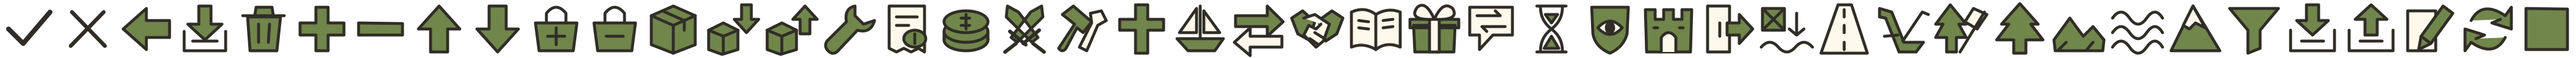
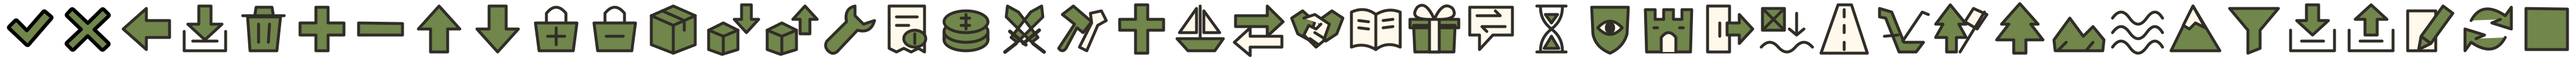
Use filled hand-drawn confirmation and cancel signs

Changed region(s): [[0.0, 0.1562, 0.0625, 0.8438]]

diff --git a/akropia-game/src/test/java/org/akropia/gui/image/ButtonPresentationContractTest.java b/akropia-game/src/test/java/org/akropia/gui/image/ButtonPresentationContractTest.java
@@ -59,15 +59,23 @@ class ButtonPresentationContractTest {
         assertEquals(96, image.getHeight());
         for (int cell = 0; cell < cells; cell++) {
             int ink = 0;
+            int olive = 0;
+            final int expectedInk = cell < 2 ? 0x000000 : 0x302d27;
             for (int x = cell * 96; x < (cell + 1) * 96; x++) {
                 for (int y = 0; y < 96; y++) {
                     final int pixel = image.getRGB(x, y);
-                    if ((pixel >>> 24) == 255 && (pixel & 0xffffff) == 0x302d27)
+                    if ((pixel >>> 24) == 255
+                            && (pixel & 0xffffff) == expectedInk)
                         ink++;
+                    if ((pixel >>> 24) == 255 && (pixel & 0xffffff) == 0x71864b)
+                        olive++;
                 }
             }
             assertTrue(ink > 40,
                     "Empty or missing action icon in cell " + cell);
+            if (cell < 2)
+                assertTrue(olive > 300,
+                        "Confirmation signs must have a flat olive fill");
             assertEquals(0, image.getRGB(cell * 96, 0) >>> 24);
             assertEquals(0, image.getRGB((cell + 1) * 96 - 1, 95) >>> 24);
         }

diff --git a/akropia-test/src/test/java/org/akropia/test/TC_01_F01_embark_disembark_test.java b/akropia-test/src/test/java/org/akropia/test/TC_01_F01_embark_disembark_test.java
@@ -79,6 +79,14 @@ public class TC_01_F01_embark_disembark_test extends AbstractAkropiaTest {
         // Select and confirm the first passenger of two.
         PassengerTransferPage passengers = new PassengerTransferPage(
                 getContext());
+        // Shared confirmation signs retain their button layout and action
+        // labels.
+        final org.akropia.page.PaperButtonsPage buttons = new org.akropia.page.PaperButtonsPage(
+                getContext());
+        buttons.verifyPaperButton("passenger-cancel");
+        buttons.verifyPaperButton("passenger-confirm");
+        buttons.captureDialog("passenger-confirm",
+                "r0445-confirmation-signs.png");
         passengers.chooseOnly(24);
         passengers.confirm();
         gamePage.waitForNumberOfUnitsAt(SHORE_LAND_LOCATION, 1);

diff --git a/docs/functional-tests.md b/docs/functional-tests.md
@@ -14913,3 +14913,18 @@ The numbered entries below are chronological evidence, including failed attempts
 8. Fixed smoke/support dispatched as `20261110T022110Z-cec87976799b` (PID 15814), outer timeout 480 seconds and unchanged 420-second acceptance budget. Final acceptance and documentation closure remain pending.
 9. Fixed smoke/support passed **21 tests, zero failures/errors/skips**, `target/verification/run-5jfymozs/`, 235.559 supervised seconds within the 420-second budget. Every task executable source matches both the accepted hash record and smoke snapshot. Final review confirms return/cancel, overwrite and failed-save behavior, preserved game assertions, scoped paper styling and the two rendered screenshots. R-0444 is locally accepted; historical failed runs remain failed. No remote CI, full regression or publication verification was performed.
 10. Final documentation acceptance uses the complete staged source snapshot, excluding the unrelated backlog edit: 14 consistency tests, naming audit and strict MkDocs passed. Logs are retained in `target/r0444/docs-tests-final.log`, `name-audit-final.log` and `mkdocs-final.log`.
+
+
+## R-0445 confirmation signs — 2026-11-10
+
+1. [Requirement](requirements/done/R-0445.md): only shared CONFIRM/CANCEL artwork changes. Existing localized button labels and actions remain. TC_01_F01_embark_disembark_test/01 additionally verifies both passenger buttons and captures `r0445-confirmation-signs.png`, retaining all transfer assertions; TC_83 covers shared controls, states and keyboard activation. PageVerificationContractTest retains the source contract.
+2. Genuine vector paths use flat olive fills and black 2-logical-pixel outlines at 32 × 32 display size. Repeatable controls export/check passed. Decoded RGBA comparison confirms all 42 other atlas cells unchanged (`target/r0445/atlas-review.txt`). Vector preview reviewed at 32 px and enlarged; no paper backing or text is part of either sign. Shared Java formatter applied to both changed test files.
+3. Local acceptance is in progress: model/JUnit dispatch `20261110T023051Z-790a14327490`, supervisor PID 17145, timeout 600 seconds. Targeted Docker/Xvfb and smoke/support follow passing model results. Remote CI, full regression and publication are not inspected.
+
+4. First model attempt timed out during preparation: the labeled Docker container query exceeded 20 seconds; no test command started. Docker Desktop was running but its server probe also exceeded two seconds. A subsequent explicit server probe returned version 29.8.2 in 0.397 seconds (`target/r0445/docker-wake.log`). This is a startup-delay diagnosis, not a failed test or acceptance. All original evidence is retained. Documentation checks passed: 14 tests, zero failures/errors/skips, naming audit zero unexplained occurrences, strict MkDocs.
+
+5. Model/JUnit retry `20261110T023226Z-4e31abc4886f` (PID 17407) passed in 157.180 supervised seconds: 5117 tests in 394 reports, zero failures/errors/skips, `target/verification/run-tsx_pe0b`. All five changed asset/config/test files match the checked snapshot. Targeted Docker/Xvfb dispatch `20261110T023525Z-ab6d354ef53b` (PID 18005), timeout 1,800 seconds: complete TC_01, TC_83 and PageVerificationContractTest.
+
+6. Targeted Docker/Xvfb passed **7 tests, zero failures/errors/skips**, three XML reports in `target/docker-ui/run-qYeMAY`, 98.010 supervised seconds. Reviewed [actual passenger-dialog screenshot](graphics-assets/confirmation-signs-2026-11-10/passengers.png): both standalone green signs have black outlines and fit their existing buttons; original Cancel / Disembark selected labels remain, without any artwork text or paper tags. Existing transfer, shared button, focus and keyboard assertions pass. This is automated screenshot review, not a player study.
+
+7. Final smoke/support `20261110T023742Z-61c98b8a3224` (PID 18233) passed **21 tests, zero failures/errors/skips**, 12 reports in `target/verification/run-z8wquxb5`, 232.854 supervised seconds, within the 420-second phase budget. All five changed asset/config/test files match the retained smoke snapshot and the model snapshot. Local acceptance on candidate based on `660fb5eb5009cf2a68f9bdc27c169bee8f69ea8e`: **5,117 model/JUnit + 7 targeted UI/source-contract + 21 smoke/support checks**, all passing. The earlier Docker preparation timeout remains failed evidence. Full regression, remote CI and publication were not inspected.

diff --git a/docs/requirements/done/R-0445.md b/docs/requirements/done/R-0445.md
@@ -1,0 +1,33 @@
+# R-0445 — Samostatné zelené značky potvrzení a zrušení
+
+1. Status: done
+2. Updated: 2026-11-10
+3. Related: [grafický kontrakt](../../graphics.md#soucasne-zadani-vzhledu), [UX](../../ux.md), UC-001; TC_01_F01_embark_disembark_test a TC_83_F74_wooden_buttons_test.
+4. Dependencies: existující společné ikony a tlačítka; žádná nová herní pravidla.
+5. Primary area: [A03](../areas.md#a03).
+6. Related areas: A05/A06 používají stejné ovládání výběru cestujících.
+7. Origin: uživatel 2026-11-10 vybral návrh „1 — Soft corners“ bez papírových podkladů a bez textu přidaného do náhledu; zadal implementaci právě dvou značek.
+
+## 1. Summary
+
+1. Potvrzení a zrušení mají zapadnout mezi stávající ručně kreslené ikony menu.
+2. Dosavadní značky jsou jednoduché nevyplněné tahy v atlasu sdílených akcí.
+3. Změna zahrnuje jen fajfku a křížek, nikoli ostatní ikony, rozložení nebo význam tlačítek.
+
+## 2. Behavior
+
+1. Na existujících tlačítkách potvrzení a zrušení hráč uvidí samostatné zelené značky s měkce zakončenými rohy, jemně nepravidelnou geometrií a černým obrysem přibližně 2 logické px.
+2. Obě značky používají plochou olivovou výplň a stávající rozměr ikony 32 × 32 logických px. Nemají papírový podklad ani vložené nápisy Cancel/OK.
+3. Stávající lokalizované popisky tlačítek, fokus, klávesové ovládání, dostupnost, potvrzení a zrušení akcí se nemění. Zrušení výběru cestujících stále ponechá jednotky na lodi; potvrzení provede zvolený přesun.
+4. Výplně neobsahují stínování ani texturu. Herní pravidla a uložené pozice se nemění.
+
+## 3. Implementation steps
+
+1. Vlastníkem je grafika používaná `gui.image.ButtonIcon`: změnit pouze buňky CONFIRM/CANCEL v `action-icons.svg`; skutečné vektorové cesty s obrysem 3 jednotky na plátně 48 dávají 2 logické px při zobrazení 32.
+2. Exportovat atlas existujícím manifestem, ověřit opakovatelnost a nezměněné ostatní buňky. Nezasahovat do textů ani Java runtime.
+3. Upravit existující kontrolu atlasu pro černý obrys a zelenou výplň. TC_01 zachová hráčské výsledky a ověří společný vzhled obou tlačítek; uloží snímek. Spustit všechny model/JUnit testy, cílené TC_01, TC_83 a PageVerificationContractTest, potom smoke/support; ověřit dokumentaci a strict MkDocs.
+4. Implementace a povinná místní přejímka jsou dokončené; výsledky jsou v [funkční evidenci](../../functional-tests.md#r-0445-confirmation-signs-2026-11-10). Publikace se ověřuje samostatně.
+
+## 4. Open questions
+
+1. None.

diff --git a/docs/graphics.md b/docs/graphics.md
@@ -1,5 +1,12 @@
 # Grafické podklady a jejich použití v Akropia
 
+## Zelené značky potvrzení a zrušení — 10. listopadu 2026
+
+1. [R-0445](requirements/done/R-0445.md) přebírá vybraný návrh „1 — Soft corners“: samostatná zelená fajfka a křížek, bez papírových podkladů i bez nápisů přidaných do výtvarného náhledu. Existující lokalizované texty tlačítek zůstávají zachované.
+2. Skutečné vektorové cesty jsou v prvních dvou buňkách [action-icons.svg](../akropia-game/src/graphics/action-icons.svg), černý obrys `#000000` má 3 jednotky na plátně 48, tedy 2 logické px při zobrazení 32 × 32. Výplň je jediná olivová `#71864B`; rohy jsou měkké, geometrie jemně nepravidelná. Žádná textura, stínování ani vložený bitmapový podklad.
+3. Export: `python3 scripts/graphics/export-graphics.py controls --install`, ověření `--check`. Ostatních 42 buněk atlasu se nemění. Skutečnou hráčskou přejímku a snímek vlastní [funkční evidence](functional-tests.md#r-0445-confirmation-signs-2026-11-10).
+
+
 ## Rámeček záložek přepravní cesty — 6. listopadu 2026
 
 1. R-0421 používá pro nové záložky a rozbalovací sekce vlastní `akropia-game/src/graphics/trade-route-frame.svg`: skutečná vektorová nepravidelná kontura s černou linkou `#000000`, šířkou 2 jednotky na plátně 96 × 48, bez bitmap. Sdílený starší rámeček ostatních obrazovek se nemění.

diff --git a/docs/requirements/backlog.md b/docs/requirements/backlog.md
@@ -1274,3 +1274,8 @@ remain owned by their current requirements; acceptance is recorded in the
 ## Průvodce generovaným světem — 2026-11-09
 
 1. [R-0437](done/R-0437.md), status `done`, A02 s vazbami A01/A03/A04: schválený dvoukrokový průvodce, čtyři velikosti, tři rozložení pevniny a textový seed. Implementováno a lokálně ověřeno 2026-11-09; výsledky vlastní funkční evidence.
+
+
+## Samostatné zelené značky potvrzení a zrušení — 2026-11-10
+
+1. [R-0445](done/R-0445.md), status `done`, A03 s vazbou A05/A06: implementovány a lokálně ověřeny právě dvě značky z varianty „1 — Soft corners“, bez papírového podkladu a bez textů vložených do náhledu; zachovat existující popisky a akce tlačítek.
